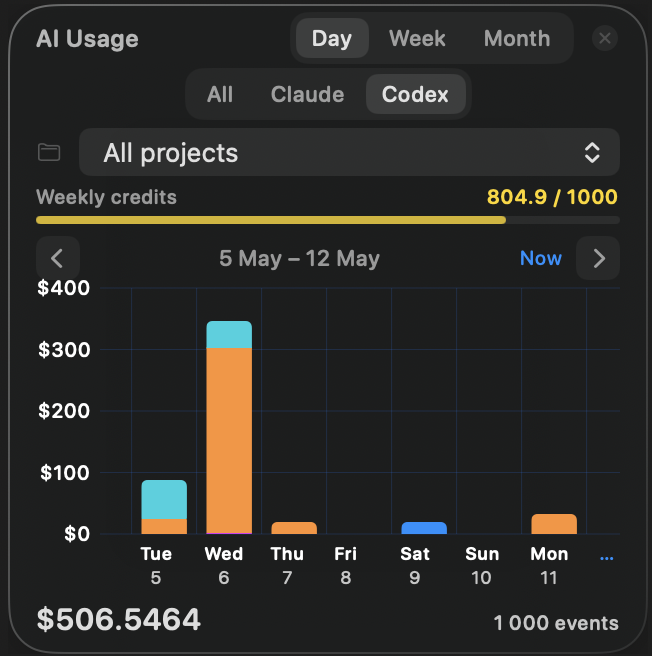
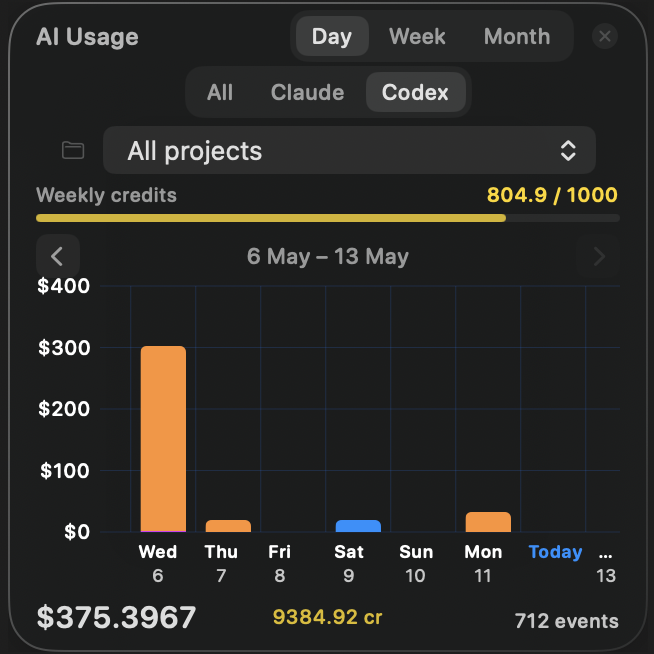
Add credits count field

diff --git a/token-usage-app/Sources/TokenUsageApp/Views/BarChartView.swift b/token-usage-app/Sources/TokenUsageApp/Views/BarChartView.swift
@@ -14,10 +14,13 @@ struct ChartPoint: Identifiable {
 struct ChartData {
     let points: [ChartPoint]
     let totalCost: Double
+    let totalCredits: Double        // 0 for Claude (no credits field)
     let totalEntries: Int
-    let bucketCounts: [Date: Int]   // entry count per bucket for footer
+    let bucketCounts: [Date: Int]
+    let bucketCredits: [Date: Double]
 
-    static let empty = ChartData(points: [], totalCost: 0, totalEntries: 0, bucketCounts: [:])
+    static let empty = ChartData(points: [], totalCost: 0, totalCredits: 0,
+                                 totalEntries: 0, bucketCounts: [:], bucketCredits: [:])
 }
 
 struct BarChartView: View {
@@ -25,6 +28,7 @@ struct BarChartView: View {
     let kind: TimeRangeKind
     let scrollDate: Date            // for x-axis domain
     @Binding var scrollDateBinding: Date
+    var showCredits: Bool = false
 
     private static let palette: [Color] = [
         .blue, .purple, .orange, .teal, .pink, .indigo, .mint
@@ -166,19 +170,30 @@ struct BarChartView: View {
             .onChange(of: kind)       { _, _ in selectedBucket = nil }
 
             // ── Footer ─────────────────────────────────────────────────
-            HStack(alignment: .firstTextBaseline, spacing: 0) {
-                let displayCost = selectedCost ?? data.totalCost
-                Text(String(format: "$%.4f", displayCost))
-                    .font(.system(size: 15, weight: .semibold, design: .rounded))
-                    .foregroundStyle(.primary)
-                    .transition(.opacity.combined(with: .scale(scale: 0.95, anchor: .leading)))
+            ZStack(alignment: .center) {
+                // Left and right anchored items
+                HStack(alignment: .firstTextBaseline, spacing: 0) {
+                    let displayCost = selectedCost ?? data.totalCost
+                    Text(String(format: "$%.4f", displayCost))
+                        .font(.system(size: 15, weight: .semibold, design: .rounded))
+                        .foregroundStyle(.primary)
+                        .transition(.opacity.combined(with: .scale(scale: 0.95, anchor: .leading)))
 
-                Spacer()
+                    Spacer()
 
-                let count = selectedBucket.flatMap { data.bucketCounts[$0] } ?? data.totalEntries
-                Text("\(count) event\(count == 1 ? "" : "s")")
-                    .font(.system(size: 10, weight: .medium, design: .rounded))
-                    .foregroundStyle(.white.opacity(0.75))
+                    let count = selectedBucket.flatMap { data.bucketCounts[$0] } ?? data.totalEntries
+                    Text("\(count) event\(count == 1 ? "" : "s")")
+                        .font(.system(size: 10, weight: .medium, design: .rounded))
+                        .foregroundStyle(.white.opacity(0.75))
+                }
+
+                // Credits — centered, Codex only
+                if showCredits {
+                    let displayCredits = selectedBucket.flatMap { data.bucketCredits[$0] } ?? data.totalCredits
+                    Text(String(format: "%.2f cr", displayCredits))
+                        .font(.system(size: 10, weight: .medium, design: .rounded))
+                        .foregroundStyle(.yellow.opacity(0.85))
+                }
             }
             .animation(.easeInOut(duration: 0.2), value: selectedBucket)
             .padding(.top, 2)

diff --git a/token-usage-app/Sources/TokenUsageApp/Views/ContentView.swift b/token-usage-app/Sources/TokenUsageApp/Views/ContentView.swift
@@ -179,7 +179,8 @@ struct ContentView: View {
                         data: chartData,
                         kind: selectedKind,
                         scrollDate: scrollDate,
-                        scrollDateBinding: $scrollDate
+                        scrollDateBinding: $scrollDate,
+                        showCredits: selectedSource == "codex"
                     )
                     .padding(.horizontal, 14)
                     .padding(.bottom, 8)
@@ -244,6 +245,7 @@ struct ContentView: View {
 
         var grouped: [Date: [String: (cost: Double, tokens: Int, source: String)]] = [:]
         var bucketCounts: [Date: Int] = [:]
+        var bucketCredits: [Date: Double] = [:]
 
         for entry in visible {
             guard let interval = calendar.dateInterval(of: component, for: entry.ts) else { continue }
@@ -257,6 +259,7 @@ struct ContentView: View {
                 source: entry.source
             )
             bucketCounts[bucket, default: 0] += 1
+            if let cr = entry.credits { bucketCredits[bucket, default: 0] += cr }
         }
 
         var points: [ChartPoint] = []
@@ -271,8 +274,10 @@ struct ContentView: View {
         return ChartData(
             points: points,
             totalCost: visible.reduce(0) { $0 + $1.cost_usd },
+            totalCredits: visible.compactMap(\.credits).reduce(0, +),
             totalEntries: visible.count,
-            bucketCounts: bucketCounts
+            bucketCounts: bucketCounts,
+            bucketCredits: bucketCredits
         )
     }
 